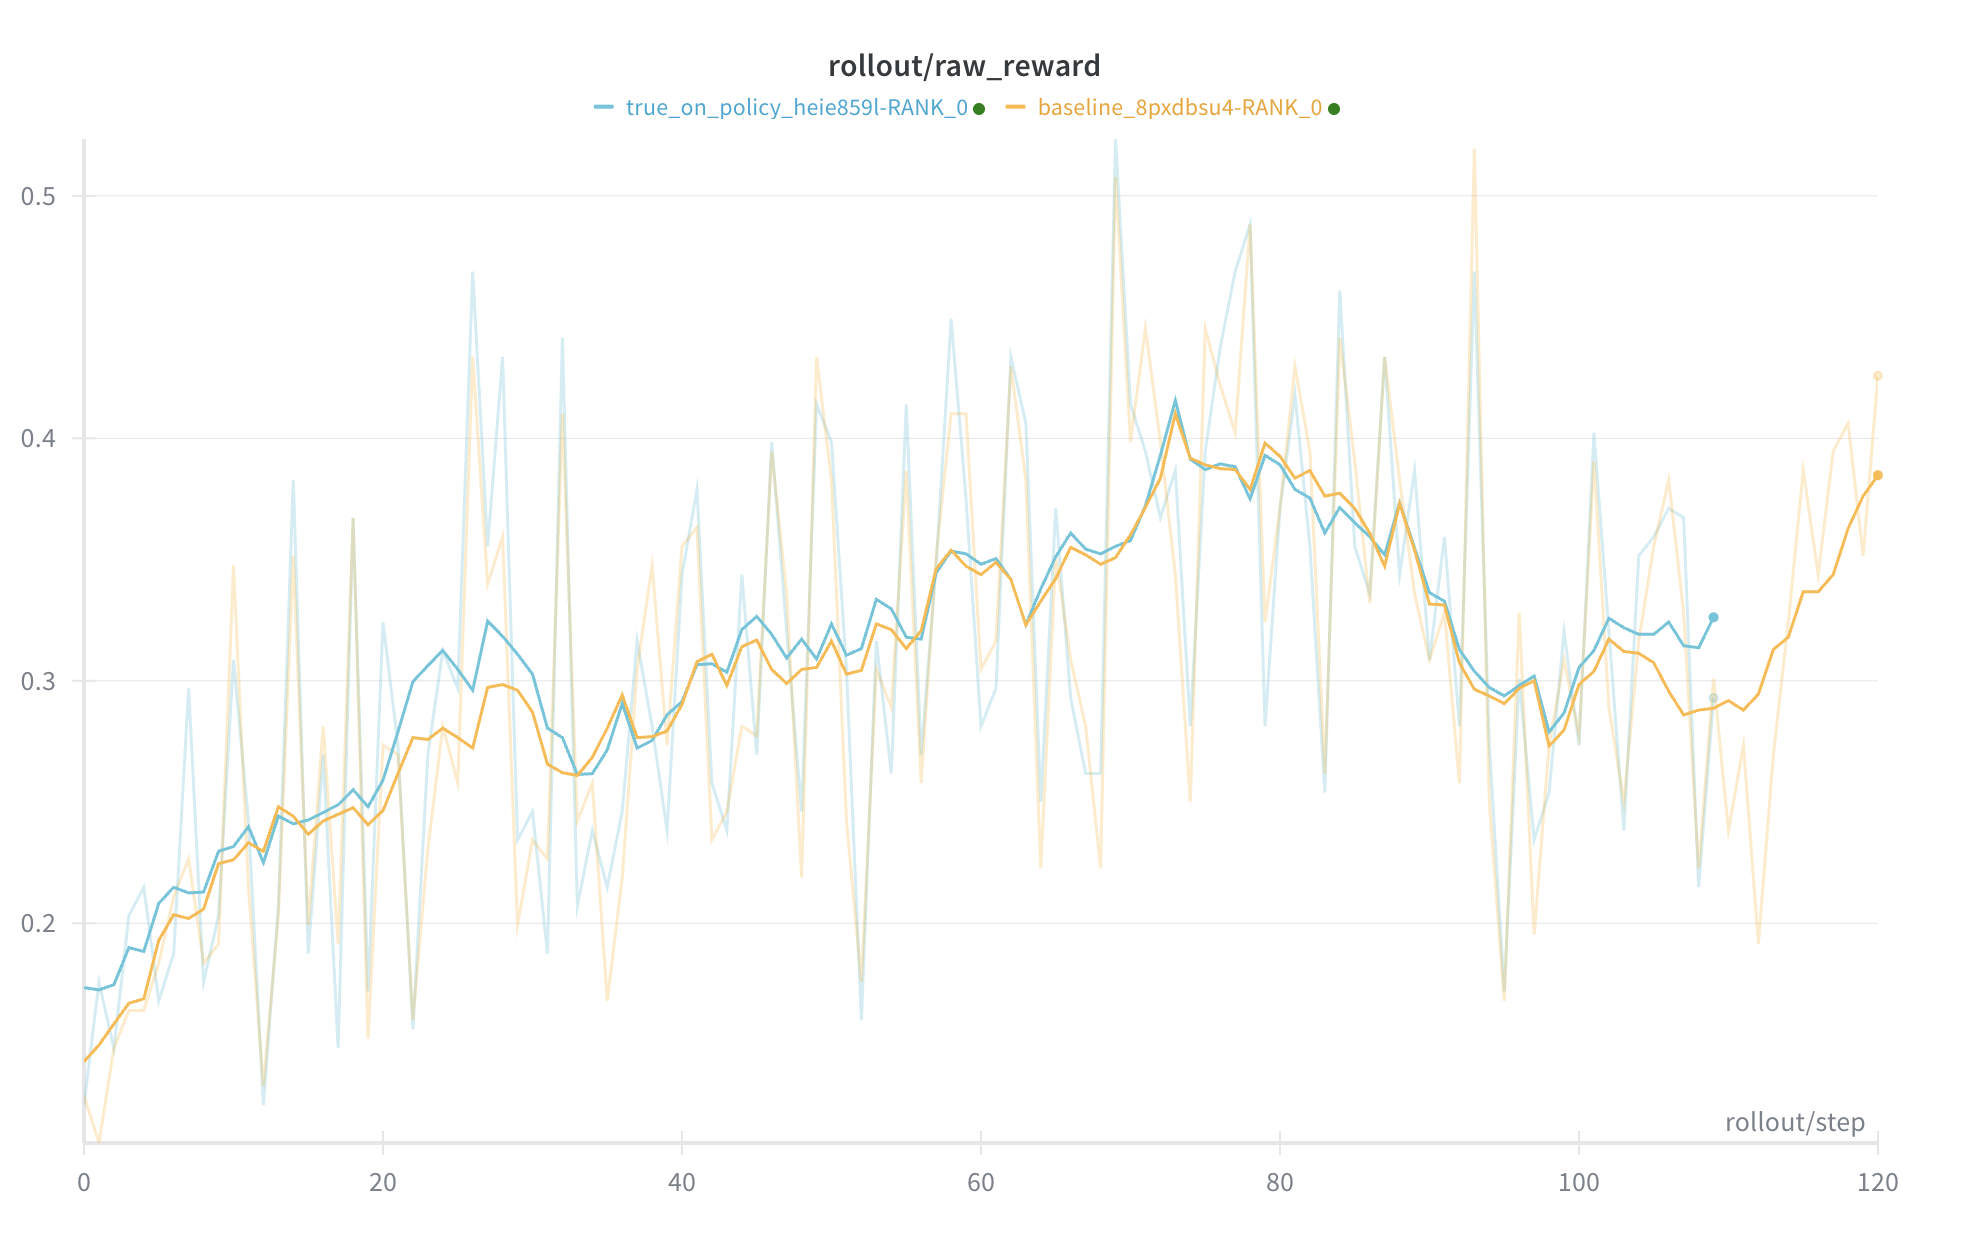
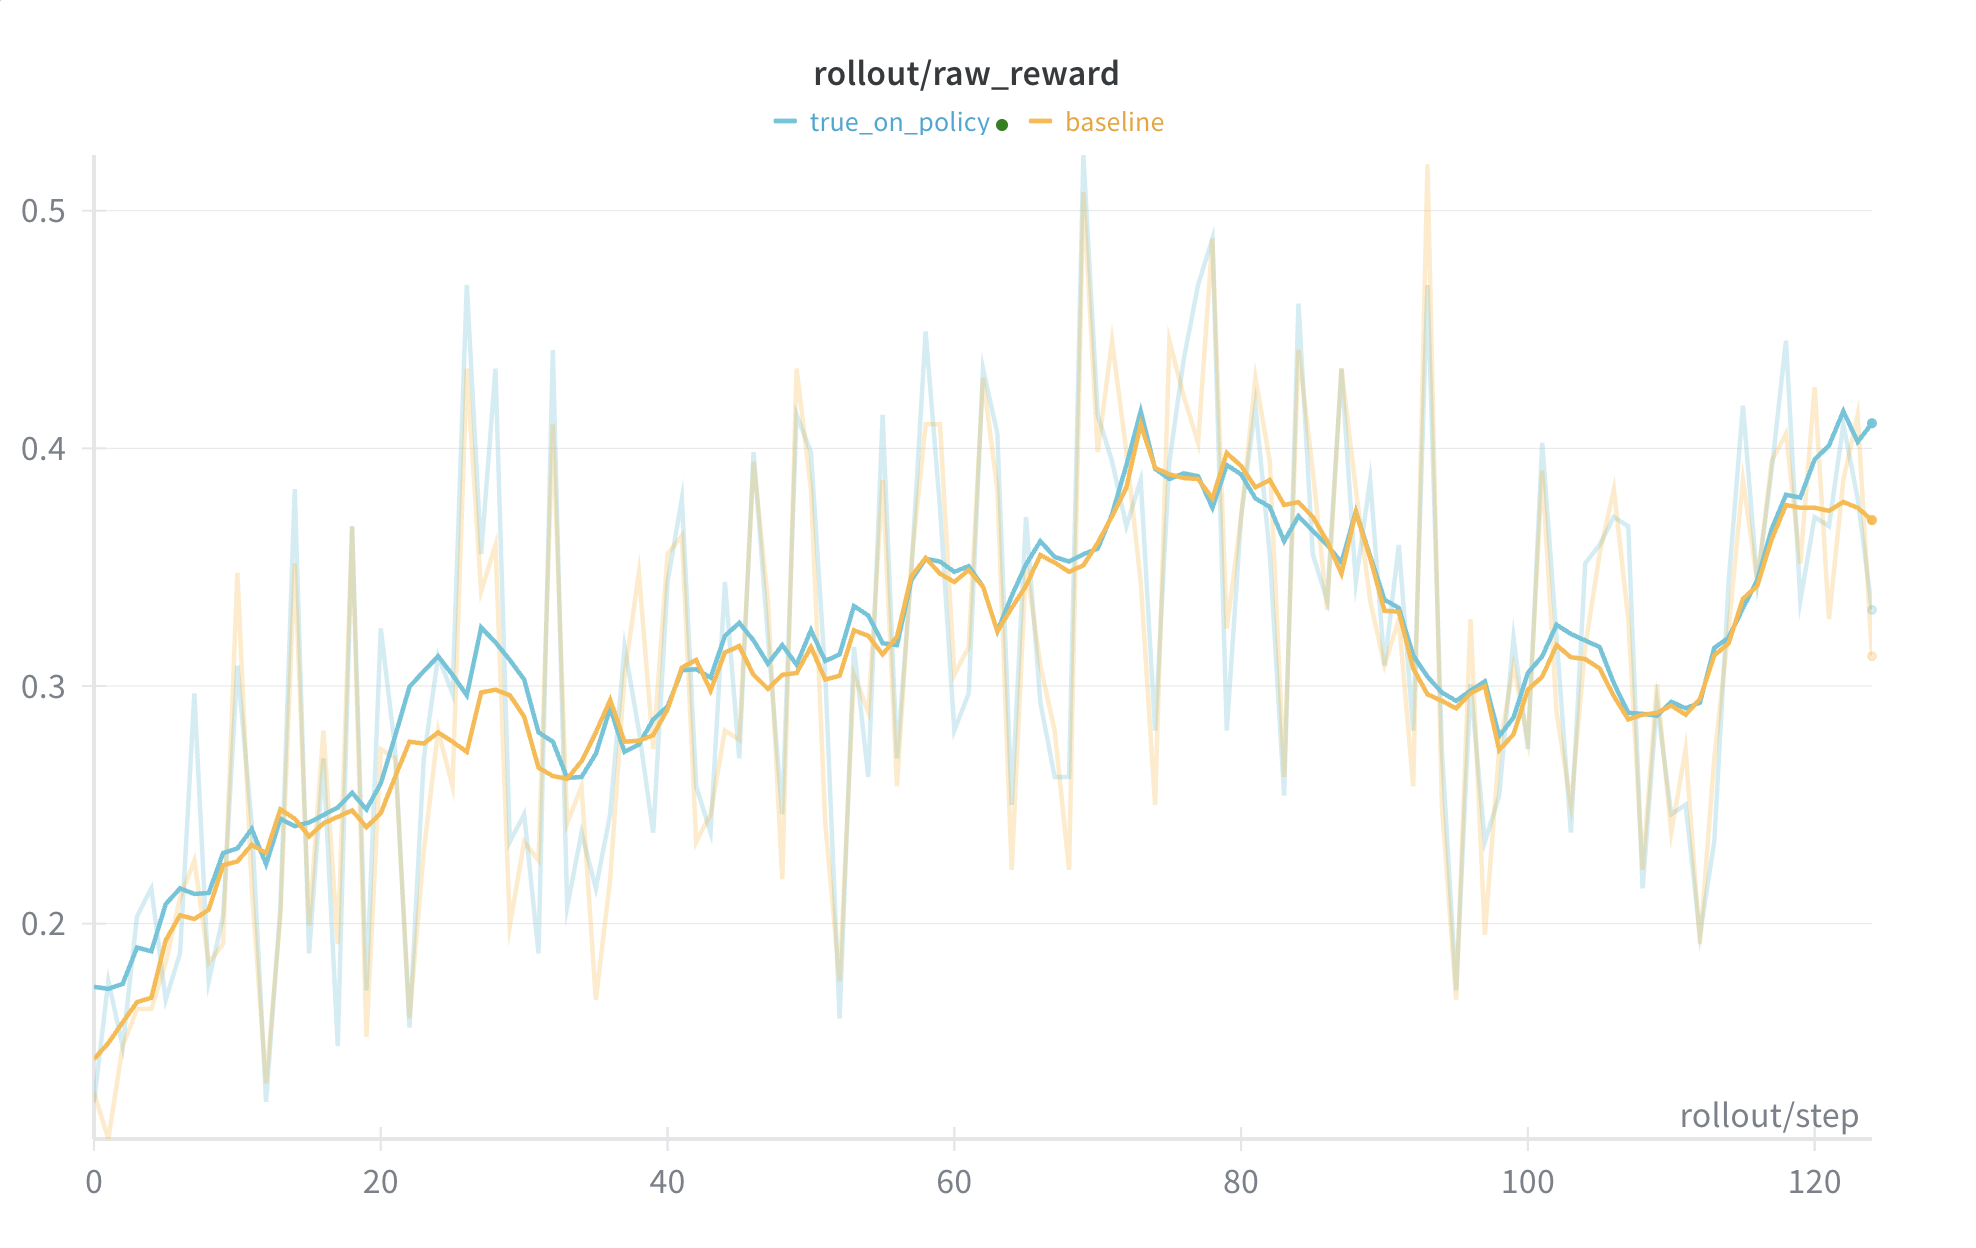
update pics in true-on-policy doc (#783)

Changed region(s): [[0.0, 0.1222, 0.958, 0.9775], [0.3708, 0.0305, 0.6798, 0.1222], [0.309, 0.0611, 0.3399, 0.0916]]

diff --git a/examples/true_on_policy/README.md b/examples/true_on_policy/README.md
@@ -33,7 +33,7 @@ After running the training, you can see in wandb that the metric `train/train_ro
 ### Setup & Results
 We fine-tune Qwen3-4B-Base on dapo-math-17k dataset with max_new_tokens = 2048, and evaluate on aime-2024 dataset with max_new_tokens = 8192.
 Global batch size is 64 × 16. Results are summarized below.
-<p align="center"> <img width="450" alt="raw_rewards" src="src/raw_reward.png" /> <img width="450" alt="diff" src="src/train_rollout_abs_diff.png" /> <img width="450" alt="rollout_time" src="src/rollout_time.png" /> <img width="450" alt="eval" src="src/aime.png" /> </p>
+<p align="center"> <img width="360" alt="diff" src="src/train_rollout_abs_diff.png" /> <img width="360" alt="step_time" src="src/step_time.png" /> <img width="360" alt="rollout_time" src="src/rollout_time.png" /> <img width="360" alt="raw_rewards" src="src/raw_reward.png" /> <img width="360" alt="eval" src="src/aime.png" /> </p>
 
 ### Observations
 
@@ -52,6 +52,7 @@ Briefly speaking, we handled the following components to make them aligned:
 * Attention: We use the [Flash Attention 3](https://github.com/Dao-AILab/flash-attention) backend for both training and inference, since it achieves bitwise equal between prefill and decode operations.
 * GEMM: We use [DeepGEMM](https://github.com/deepseek-ai/DeepGEMM) for fast matrix multiplication while preserving true-on-policy, thanks to its algorithm to pick things like tensor core instructions ([SGLang#12142](https://github.com/sgl-project/sglang/pull/12142)).
 * Batch invariant kernels: This is a prerequisite for true on-policy, and we use [the ones](https://github.com/thinking-machines-lab/batch_invariant_ops) from the Thinking Machines Lab.
+* Torch compile: We also utilize [`torch.compile`](https://docs.pytorch.org/docs/stable/generated/torch.compile.html) to speed up by avoiding many tiny kernels.
 * We align numeric operation details between the two systems for simplicity, such as op dtype, detailed kernels, etc. Some operations can also be compiled to speedup ([#603](https://github.com/THUDM/slime/pull/603), [SGLang#12161](https://github.com/sgl-project/sglang/pull/12161)).
 
 In order to more easily align the two parts, we use SGLang's [dumper](https://github.com/sgl-project/sglang/blob/main/python/sglang/srt/debug_utils/dumper.py) tool for quick comparisons. (Need [#12622](https://github.com/sgl-project/sglang/pull/12622) and [#12623](https://github.com/sgl-project/sglang/pull/12623) for most convenience.)
